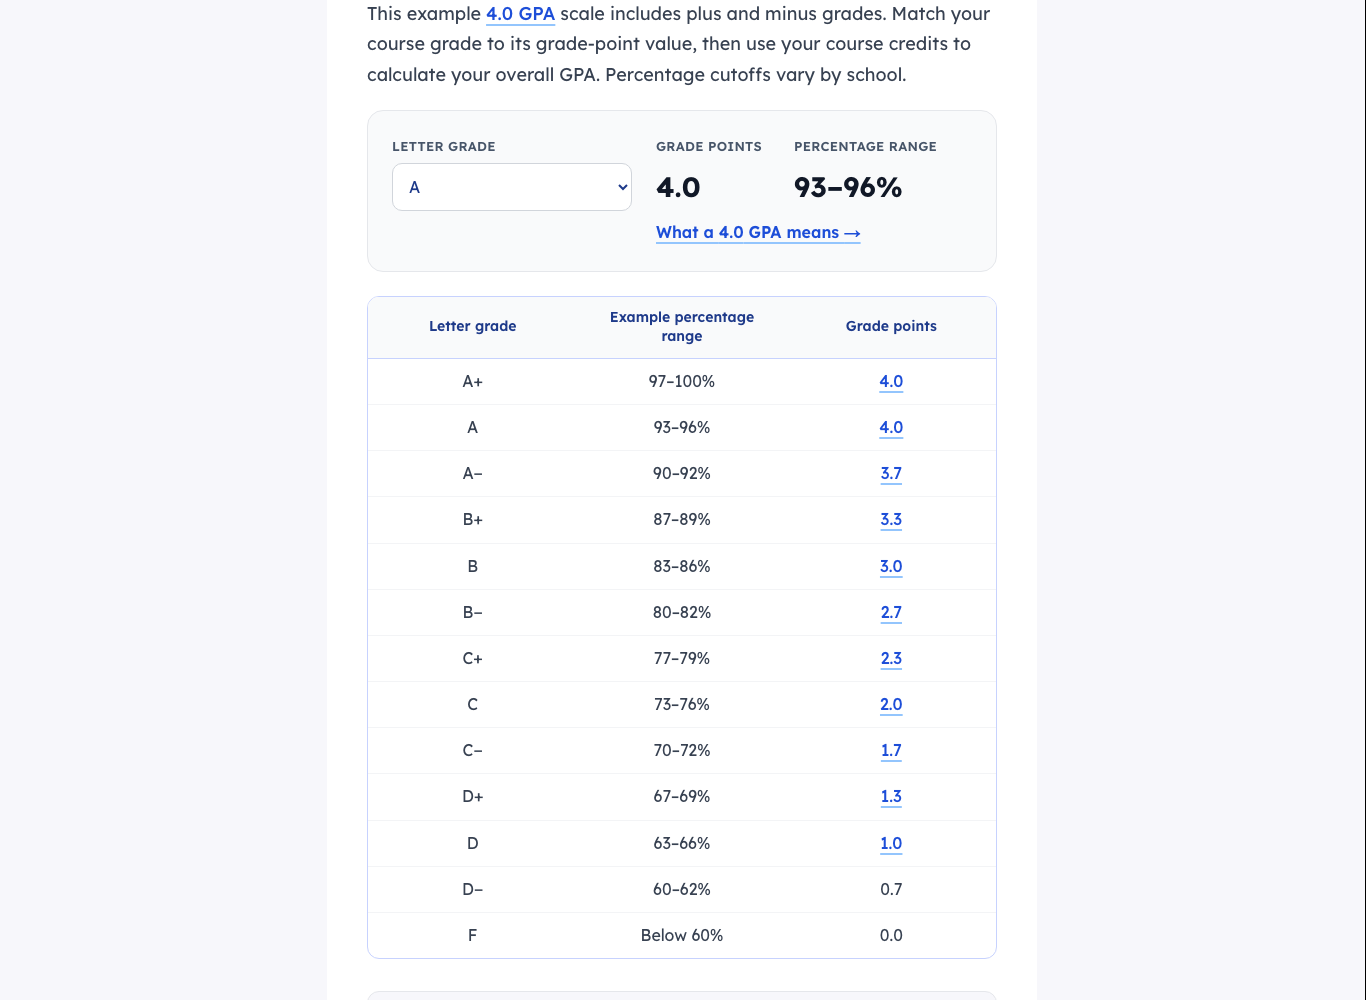
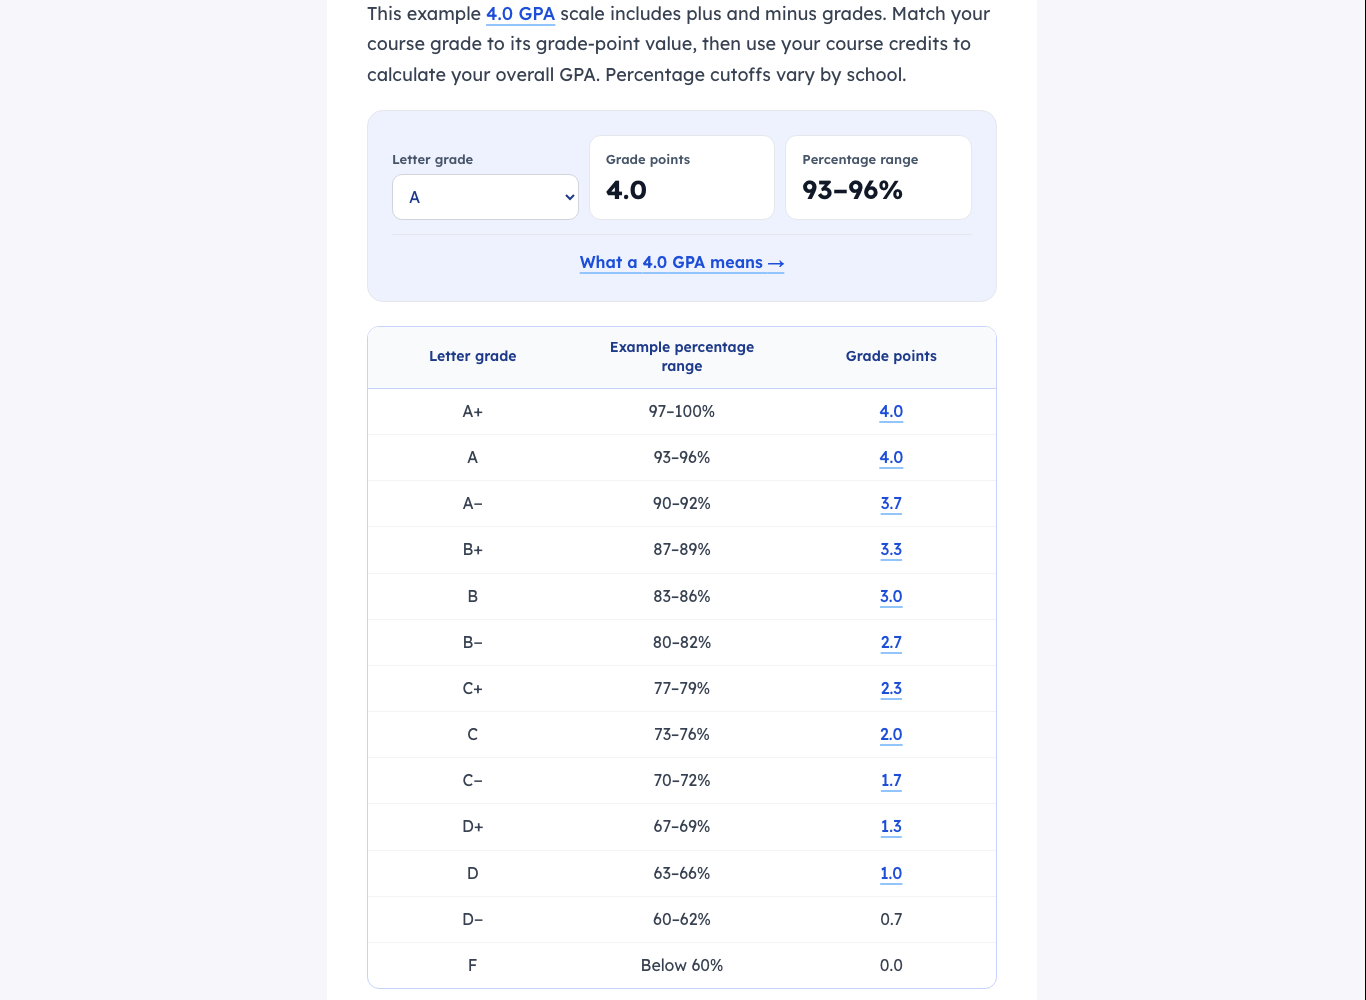
GPA scale hub converter polish: GPA-page card look (tint, sentence-case labels, white figure tiles), select level with the tiles, link centred under a hairline

diff --git a/child-theme/generatepress-child/gpa-scale.css b/child-theme/generatepress-child/gpa-scale.css
@@ -186,6 +186,43 @@ body.gpa-hero-band .entry-header .gpa-updated {
     #page .entry-content .gpa-quickconv { padding: 16px !important; }
 }
 
+/* Hub converter, polish (Digant 2026-10-03 09:00): the GPA page card's look (tint, sentence-case labels, white
+   figure tiles), the select and the two figures in one row, the link centred on its own line under a hairline */
+#page .entry-content .gpa-quickconv {
+    grid-template-columns: minmax(0, 1fr) minmax(0, 1fr) minmax(0, 1fr);
+    gap: 10px;
+    background: var(--gpa-tint-indigo, var(--gpa-surface-subtle)) !important;
+}
+#page .entry-content .gpa-quickconv__out { display: contents; }
+#page .entry-content .gpa-quickconv__label {
+    margin-bottom: 4px;
+    font-size: 13px;
+    letter-spacing: 0;
+    text-transform: none;
+}
+#page .entry-content .gpa-quickconv__field { padding-top: 13px; }   /* label level with the tiles' labels */
+#page .entry-content .gpa-quickconv__select { min-height: 46px; }   /* bottom level with the tiles */
+#page .entry-content .gpa-quickconv__stat {
+    padding: 12px 16px;
+    background: var(--gpa-surface);
+    border: 1px solid var(--gpa-border);
+    border-radius: 12px;
+}
+#page .entry-content .gpa-quickconv__stat strong { font-size: 26px; line-height: 1.25; }
+#page .entry-content .gpa-quickconv__link {
+    grid-column: 1 / -1;
+    justify-self: stretch;
+    margin-top: 4px;
+    padding-top: 14px;
+    border-top: 1px solid var(--gpa-border);
+    text-align: center;
+}
+@media (max-width: 640px) {
+    #page .entry-content .gpa-quickconv { grid-template-columns: minmax(0, 1fr) minmax(0, 1fr); }
+    #page .entry-content .gpa-quickconv__field { grid-column: 1 / -1; padding-top: 0; }
+    #page .entry-content .gpa-quickconv__stat strong { font-size: 22px; }
+}
+
 #page .entry-content .gpa-lookup__group {
     margin: 24px 0 12px !important;
     font-size: 17px !important;
@@ -238,8 +275,6 @@ body.gpa-hero-band .entry-header .gpa-updated {
     color: var(--gpa-accent);
 }
 @media (max-width: 640px) {
-    #page .entry-content .gpa-quickconv { grid-template-columns: 1fr; }
-    #page .entry-content .gpa-quickconv__stat strong { line-height: 1.2; }
     #page .entry-content .gpa-lookup__grid { grid-template-columns: repeat(2, minmax(0, 1fr)); }
 }
 #page .entry-content .gpa-lookup__tag.is-weighted { color: var(--gpa-gray-600); }
